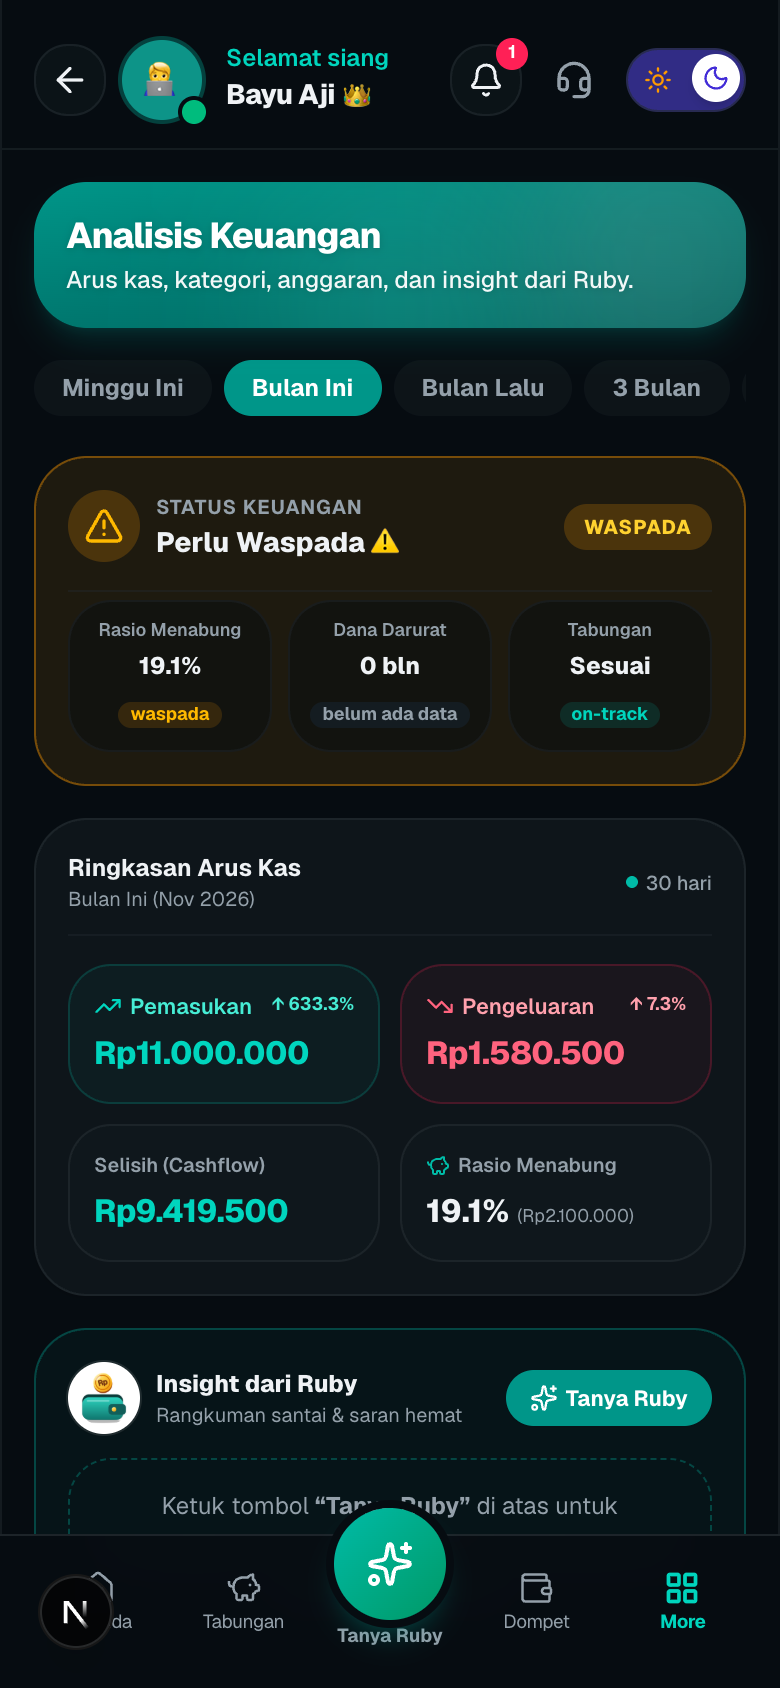
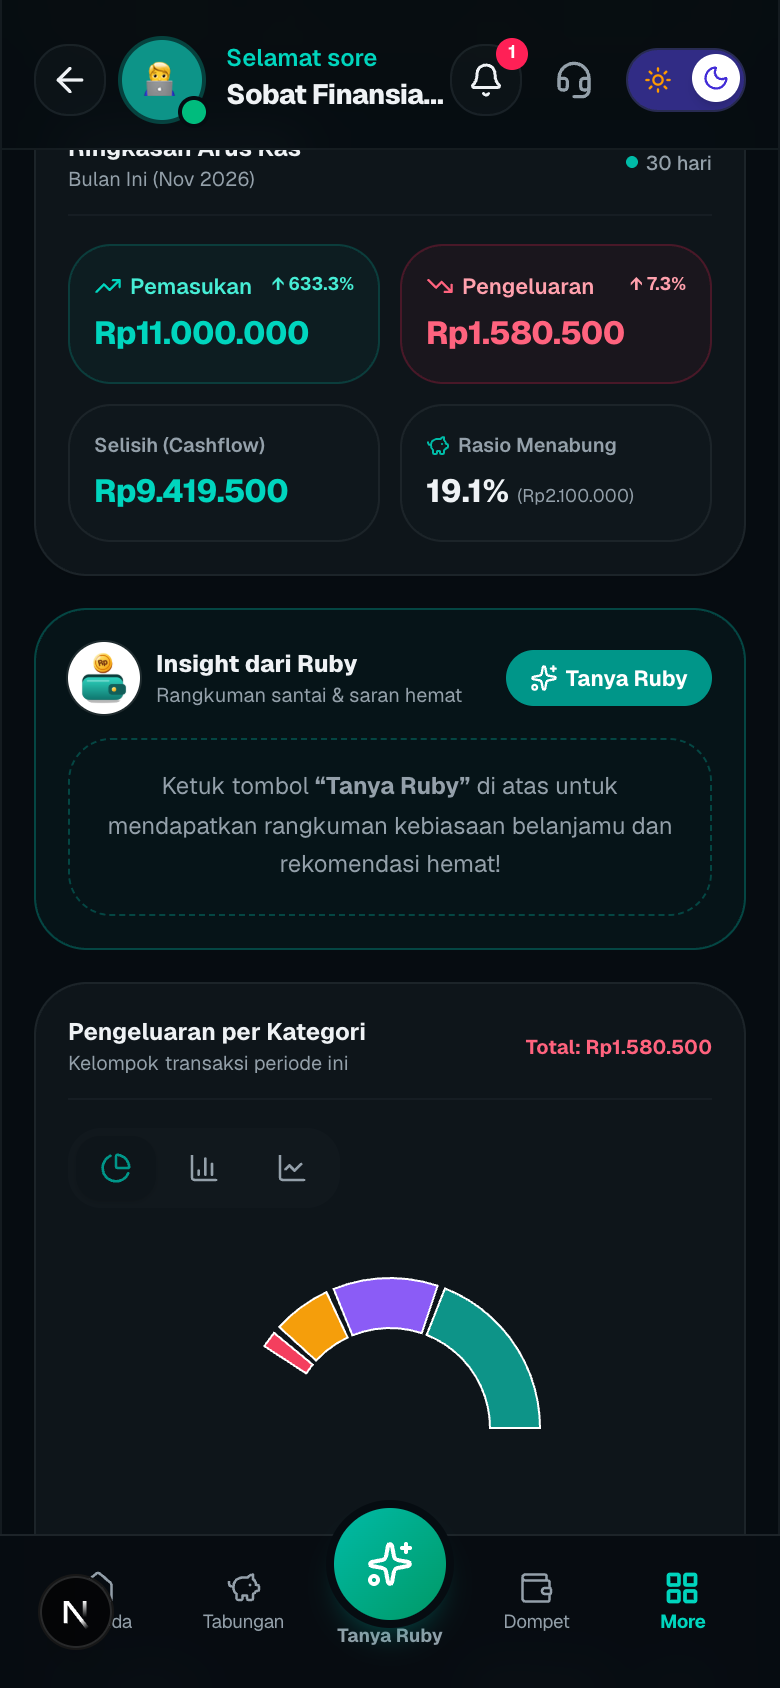
feat: Samakan tinggi baris tabel perbandingan & perbarui screenshot asli dompet, tabungan, analisis donut, dan ekspor csv

diff --git a/src/components/landing/landing-reality-check.tsx b/src/components/landing/landing-reality-check.tsx
@@ -1,8 +1,7 @@
 "use client";
 
 import * as React from "react";
-import { XCircle, CheckCircle2, Sparkles, AlertCircle, ArrowRight } from "lucide-react";
-import { cn } from "@/lib/utils";
+import { XCircle, CheckCircle2, Sparkles, AlertCircle } from "lucide-react";
 
 export function LandingRealityCheck() {
   const comparisons = [
@@ -13,7 +12,6 @@ export function LandingRealityCheck() {
     },
     {
       category: "AI & Pendamping",
-      categoryShort: "AI",
       problem: "Angka kaku tidak sesuai keuanganmu",
       solution: "Didampingi asisten pribadi Ruby AI sesuai keuanganmu",
     },
@@ -56,95 +54,96 @@ export function LandingRealityCheck() {
           </p>
         </div>
 
-        {/* Side-by-Side Comparison Table (2 Master Columns) */}
-        <div className="grid grid-cols-1 md:grid-cols-2 gap-6 lg:gap-8 items-stretch">
-          {/* COLUMN 1: Cara Lama / Aplikasi Finansial Biasa (Red Accent) */}
-          <div className="rounded-3xl border border-rose-500/20 bg-card/70 p-6 sm:p-8 flex flex-col justify-between shadow-xs">
-            <div>
-              {/* Header Kolom Kiri */}
-              <div className="pb-5 border-b border-border/60">
-                <span className="inline-flex items-center gap-1.5 px-3 py-1 rounded-full bg-rose-500/10 text-rose-600 dark:text-rose-400 text-xs font-black border border-rose-500/20">
-                  <XCircle className="size-3.5 shrink-0" />
-                  <span>Cara Konvensional</span>
-                </span>
-                <h3 className="text-xl sm:text-2xl font-black text-foreground mt-3">
+        {/* Unified Comparison Table (Pasti Sejajar & Sama Tinggi Row-by-Row) */}
+        <div className="rounded-3xl border border-border/80 bg-card overflow-hidden shadow-xl">
+          {/* Header Row */}
+          <div className="grid grid-cols-1 md:grid-cols-2 border-b border-border/80">
+            {/* Left Header (Cara Konvensional) */}
+            <div className="p-5 sm:p-6 bg-rose-500/5 md:border-r border-border/70 flex flex-col justify-between">
+              <span className="inline-flex items-center gap-1.5 px-3 py-1 rounded-full bg-rose-500/10 text-rose-600 dark:text-rose-400 text-xs font-black border border-rose-500/20 w-fit">
+                <XCircle className="size-3.5 shrink-0" />
+                <span>Cara Konvensional</span>
+              </span>
+              <div className="mt-3">
+                <h3 className="text-lg sm:text-xl font-black text-foreground">
                   Aplikasi Finansial Biasa
                 </h3>
-                <p className="text-xs sm:text-sm text-muted-foreground mt-1">
-                  Menuntut banyak waktu, kaku, dan bikin malas mencatat setelah 3 hari.
+                <p className="text-xs text-muted-foreground mt-0.5">
+                  Menuntut banyak waktu, kaku, dan bikin malas mencatat.
                 </p>
               </div>
-
-              {/* 6 Baris Masalah */}
-              <div className="divide-y divide-border/50">
-                {comparisons.map((c, i) => (
-                  <div key={i} className="py-4 sm:py-4.5 space-y-1.5">
-                    <span className="text-[10px] font-extrabold uppercase tracking-wider text-rose-500/90 dark:text-rose-400/90">
-                      {c.category}
-                    </span>
-                    <div className="flex items-start gap-2.5">
-                      <div className="size-5 rounded-full bg-rose-500/15 text-rose-600 dark:text-rose-400 flex items-center justify-center shrink-0 mt-0.5">
-                        <XCircle className="size-3.5" />
-                      </div>
-                      <p className="text-sm sm:text-base font-bold text-foreground/90 leading-snug">
-                        {c.problem}
-                      </p>
-                    </div>
-                  </div>
-                ))}
-              </div>
             </div>
 
-            <div className="pt-4 mt-2 border-t border-border/50 text-[11px] text-muted-foreground flex items-center gap-2">
-              <AlertCircle className="size-3.5 text-rose-500 shrink-0" />
-              <span>Seringkali berakhir cuma jadi kuburan angka tanpa solusi nyata.</span>
-            </div>
-          </div>
-
-          {/* COLUMN 2: Dompetku (Teal / Emerald Glowing Highlight) */}
-          <div className="rounded-3xl border-2 border-teal-500 bg-gradient-to-b from-teal-500/10 via-card to-card p-6 sm:p-8 flex flex-col justify-between shadow-2xl shadow-teal-500/10 relative overflow-hidden">
-            {/* Top Recommended Tag */}
-            <div className="absolute top-0 right-0 bg-gradient-to-l from-teal-600 to-emerald-600 text-white text-[10px] font-black uppercase px-3 py-1 rounded-bl-2xl shadow-xs">
-              Lebih Cepat &amp; Personal
-            </div>
-
-            <div>
-              {/* Header Kolom Kanan */}
-              <div className="pb-5 border-b border-border/60">
-                <span className="inline-flex items-center gap-1.5 px-3 py-1 rounded-full bg-teal-500/15 text-teal-700 dark:text-teal-300 text-xs font-black border border-teal-500/30">
+            {/* Right Header (Pendekatan Dompetku) */}
+            <div className="p-5 sm:p-6 bg-teal-500/10 relative flex flex-col justify-between">
+              <div className="flex items-center justify-between">
+                <span className="inline-flex items-center gap-1.5 px-3 py-1 rounded-full bg-teal-500/20 text-teal-700 dark:text-teal-300 text-xs font-black border border-teal-500/30 w-fit">
                   <Sparkles className="size-3.5 shrink-0 text-teal-500" />
                   <span>Pendekatan Dompetku</span>
                 </span>
-                <h3 className="text-xl sm:text-2xl font-black text-foreground mt-3 flex items-center gap-2">
+                <span className="text-[10px] font-black uppercase px-2.5 py-0.5 rounded-full bg-teal-600 text-white shadow-xs">
+                  Lebih Cepat &amp; Personal
+                </span>
+              </div>
+              <div className="mt-3">
+                <h3 className="text-lg sm:text-xl font-black text-foreground flex items-center gap-1.5">
                   <span>Dompetku AI &amp; Assistant</span>
                   <span className="text-sm">✨</span>
                 </h3>
-                <p className="text-xs sm:text-sm text-teal-700/80 dark:text-teal-300/80 mt-1">
-                  Otomatis, personal, dan memberi nasihat finansial nyata sesuai kondisimu.
+                <p className="text-xs text-teal-700/80 dark:text-teal-300/80 mt-0.5">
+                  Otomatis, personal, dan memberi nasihat finansial nyata.
                 </p>
               </div>
-
-              {/* 6 Baris Solusi */}
-              <div className="divide-y divide-border/50">
-                {comparisons.map((c, i) => (
-                  <div key={i} className="py-4 sm:py-4.5 space-y-1.5">
-                    <span className="text-[10px] font-extrabold uppercase tracking-wider text-teal-700 dark:text-teal-300">
-                      {c.category}
-                    </span>
-                    <div className="flex items-start gap-2.5">
-                      <div className="size-5 rounded-full bg-emerald-500/20 text-emerald-600 dark:text-emerald-400 flex items-center justify-center shrink-0 mt-0.5 shadow-xs">
-                        <CheckCircle2 className="size-3.5" />
-                      </div>
-                      <p className="text-sm sm:text-base font-extrabold text-foreground leading-snug">
-                        {c.solution}
-                      </p>
-                    </div>
-                  </div>
-                ))}
-              </div>
             </div>
+          </div>
 
-            <div className="pt-4 mt-2 border-t border-border/50 text-[11px] text-teal-700 dark:text-teal-300 font-semibold flex items-center gap-2">
+          {/* 6 Paired Comparison Rows: Guaranteed Identical Height */}
+          <div className="divide-y divide-border/60">
+            {comparisons.map((c, i) => (
+              <div
+                key={i}
+                className="grid grid-cols-1 md:grid-cols-2 items-stretch transition-colors hover:bg-muted/20"
+              >
+                {/* Left Cell (Red) */}
+                <div className="p-4 sm:p-5 md:border-r border-border/70 flex flex-col justify-center space-y-1 bg-rose-500/[0.02]">
+                  <span className="text-[10px] font-black uppercase tracking-wider text-rose-500/90 dark:text-rose-400/90">
+                    {c.category}
+                  </span>
+                  <div className="flex items-start gap-2.5">
+                    <div className="size-5 rounded-full bg-rose-500/15 text-rose-600 dark:text-rose-400 flex items-center justify-center shrink-0 mt-0.5">
+                      <XCircle className="size-3.5" />
+                    </div>
+                    <p className="text-xs sm:text-sm font-bold text-foreground/90 leading-snug">
+                      {c.problem}
+                    </p>
+                  </div>
+                </div>
+
+                {/* Right Cell (Teal) */}
+                <div className="p-4 sm:p-5 bg-teal-500/[0.04] flex flex-col justify-center space-y-1">
+                  <span className="text-[10px] font-black uppercase tracking-wider text-teal-700 dark:text-teal-300">
+                    {c.category}
+                  </span>
+                  <div className="flex items-start gap-2.5">
+                    <div className="size-5 rounded-full bg-emerald-500/20 text-emerald-600 dark:text-emerald-400 flex items-center justify-center shrink-0 mt-0.5 shadow-xs">
+                      <CheckCircle2 className="size-3.5" />
+                    </div>
+                    <p className="text-xs sm:text-sm font-extrabold text-foreground leading-snug">
+                      {c.solution}
+                    </p>
+                  </div>
+                </div>
+              </div>
+            ))}
+          </div>
+
+          {/* Bottom Footnote Row */}
+          <div className="grid grid-cols-1 md:grid-cols-2 border-t border-border/80 text-[11px] text-muted-foreground">
+            <div className="p-3.5 sm:p-4 bg-muted/30 md:border-r border-border/70 flex items-center gap-2">
+              <AlertCircle className="size-3.5 text-rose-500 shrink-0" />
+              <span>Seringkali berakhir cuma jadi kuburan angka tanpa solusi nyata.</span>
+            </div>
+            <div className="p-3.5 sm:p-4 bg-teal-500/10 text-teal-700 dark:text-teal-300 font-semibold flex items-center gap-2">
               <Sparkles className="size-3.5 shrink-0 text-teal-500" />
               <span>Semua berjalan otomatis tanpa repot mengetik satu per satu.</span>
             </div>

diff --git a/src/components/landing/landing-features-grid.tsx b/src/components/landing/landing-features-grid.tsx
@@ -27,7 +27,7 @@ export function LandingFeaturesGrid() {
   const features = [
     {
       id: "multi-dompet",
-      screenshot: "/screenshots/beranda-wallet.png",
+      screenshot: "/screenshots/dompet.png",
       icon: Wallet,
       tag: "Multi-Dompet Real-Time",
       title: "Bank, E-Wallet, & Tunai Terhubung Tanpa Password",
@@ -97,7 +97,7 @@ export function LandingFeaturesGrid() {
     },
     {
       id: "kontrol-data",
-      screenshot: "/screenshots/cicilan-utang.png",
+      screenshot: "/screenshots/pengaturan-ekspor.png",
       icon: Download,
       tag: "Kontrol Data 100%",
       title: "Datamu Milikmu: Ekspor CSV & Backup JSON Penuh",
@@ -139,20 +139,20 @@ export function LandingFeaturesGrid() {
       <div className="grid grid-cols-1 lg:grid-cols-12 gap-8 lg:gap-10 items-stretch">
         {/* LEFT COLUMN: Real Phone Mockup Matching Height with Right List (aligned top to bottom) */}
         <div
-          className="lg:col-span-5 flex flex-col justify-stretch self-stretch"
+          className="lg:col-span-5 flex flex-col justify-center items-center"
           onMouseEnter={() => setIsPaused(true)}
           onMouseLeave={() => setIsPaused(false)}
         >
-          {/* Smartphone Chassis stretching exactly to match right column */}
-          <div className="relative w-full h-full min-h-[580px] sm:min-h-[640px] rounded-[2.8rem] sm:rounded-[3.2rem] p-2.5 sm:p-3 bg-gradient-to-b from-neutral-800 via-neutral-900 to-neutral-950 border-[3px] border-neutral-700/80 shadow-2xl shadow-teal-950/40 flex flex-col justify-between overflow-hidden">
+          {/* Smartphone Chassis with true full phone aspect ratio (390:844) */}
+          <div className="relative w-full max-w-[340px] sm:max-w-[370px] aspect-[390/844] rounded-[3rem] p-2.5 sm:p-3 bg-gradient-to-b from-neutral-800 via-neutral-900 to-neutral-950 border-[3.5px] border-neutral-700/90 shadow-2xl shadow-teal-950/50 flex flex-col overflow-hidden">
             {/* Dynamic Island / Notch */}
             <div className="absolute top-4 left-1/2 -translate-x-1/2 w-28 h-5 rounded-full bg-black z-30 flex items-center justify-between px-2.5 shadow-sm">
               <span className="size-2 rounded-full bg-neutral-900 border border-neutral-800" />
               <span className="size-1.5 rounded-full bg-teal-500/60" />
             </div>
 
-            {/* Inner Phone Screen with Stacked Screenshots for Zero-Flicker Transitions */}
-            <div className="relative flex-1 w-full rounded-[2.2rem] sm:rounded-[2.5rem] overflow-hidden bg-background border border-neutral-800/80">
+            {/* Inner Phone Screen displaying Full Screen without cutting off bottom navigation */}
+            <div className="relative flex-1 w-full rounded-[2.3rem] overflow-hidden bg-background border border-neutral-800/80">
               {features.map((f, idx) => (
                 <div
                   key={f.id}
@@ -167,8 +167,8 @@ export function LandingFeaturesGrid() {
                     src={f.screenshot}
                     alt={f.title}
                     fill
-                    sizes="(max-width: 1024px) 100vw, 450px"
-                    className="object-cover object-top"
+                    sizes="(max-width: 1024px) 100vw, 420px"
+                    className="object-contain object-top"
                     priority={idx === 0}
                   />
                 </div>
@@ -176,7 +176,7 @@ export function LandingFeaturesGrid() {
 
               {/* Bottom Subtle Glass Indicator Bar */}
               <div className="absolute inset-x-0 bottom-2.5 px-3 z-30 pointer-events-none">
-                <div className="p-2 rounded-2xl bg-black/65 backdrop-blur-md border border-white/10 shadow-lg flex items-center justify-between text-white text-[11px] pointer-events-auto">
+                <div className="p-2 rounded-2xl bg-black/75 backdrop-blur-md border border-white/10 shadow-lg flex items-center justify-between text-white text-[11px] pointer-events-auto">
                   <div className="flex items-center gap-2 truncate">
                     <span className="font-extrabold px-2 py-0.5 rounded-full bg-teal-600 text-[10px] shrink-0">
                       #{activeIndex + 1}

diff --git a/src/lib/data/goals.ts b/src/lib/data/goals.ts
@@ -9,38 +9,56 @@ export const SAMPLE_GOALS: GoalProgress[] = [
   {
     id: "g-1",
     user_id: "demo-user",
-    name: "Target Lamaran & Nikah",
-    target_amount: 15000000,
-    initial_amount: 2000000,
-    deadline: "2027-12-31",
-    storage_place: "BCA Tabungan",
+    name: "Dana Darurat (6 Bulan)",
+    target_amount: 30000000,
+    initial_amount: 5000000,
+    deadline: "2027-06-30",
+    storage_place: "Mandiri Utama",
     storage_wallet_id: "w-1",
-    planned_per_payday: 500000,
+    planned_per_payday: 1500000,
     priority: 1,
     status: "aktif",
-    is_emergency_fund: false,
-    notes: "Persiapan seserahan & lamaran",
-    saved: 3100000,
-    remaining: 11900000,
-    percent: 20.67,
+    is_emergency_fund: true,
+    notes: "Simpanan liquid saat kondisi darurat",
+    saved: 19500000,
+    remaining: 10500000,
+    percent: 65,
   },
   {
     id: "g-2",
     user_id: "demo-user",
-    name: "Dana Darurat (3 Bulan)",
+    name: "Liburan ke Labuan Bajo",
     target_amount: 12000000,
-    initial_amount: 3000000,
-    deadline: "2027-06-30",
-    storage_place: "Bank Jago",
+    initial_amount: 2000000,
+    deadline: "2027-10-25",
+    storage_place: "BCA Tabungan",
     storage_wallet_id: "w-1",
     planned_per_payday: 1000000,
     priority: 2,
     status: "aktif",
-    is_emergency_fund: true,
-    notes: "Simpanan liquid saat kondisi darurat",
-    saved: 7500000,
-    remaining: 4500000,
-    percent: 62.5,
+    is_emergency_fund: false,
+    notes: "Tiket pesawat & penginapan kapal Phinisi",
+    saved: 7200000,
+    remaining: 4800000,
+    percent: 60,
+  },
+  {
+    id: "g-3",
+    user_id: "demo-user",
+    name: "Beli MacBook Pro M3",
+    target_amount: 25000000,
+    initial_amount: 5000000,
+    deadline: "2027-12-31",
+    storage_place: "Bank Jago",
+    storage_wallet_id: "w-1",
+    planned_per_payday: 1500000,
+    priority: 3,
+    status: "aktif",
+    is_emergency_fund: false,
+    notes: "Upgrade alat kerja desain & koding",
+    saved: 12500000,
+    remaining: 12500000,
+    percent: 50,
   },
 ];
 

diff --git a/src/app/(main)/tabungan/page.tsx b/src/app/(main)/tabungan/page.tsx
@@ -10,7 +10,7 @@ import { createClient } from "@/lib/supabase/client";
 import { todayJakarta } from "@/lib/data/sample-mode";
 import type { Database } from "@/types/database";
 import { isSpendableWallet, type WalletBalance } from "@/lib/data/wallets";
-import { deleteSavingsGoal } from "@/lib/data/goals";
+import { deleteSavingsGoal, SAMPLE_GOALS } from "@/lib/data/goals";
 import {
   calculateSavingsProjection,
   type SavingsProjectionResult,
@@ -149,8 +149,10 @@ export default function TabunganPage() {
       amount: number; wallet_id: string; note: string | null; goal_id: string | null;
     }[];
 
+    const rawGoals =
+      goalsRes.data && goalsRes.data.length > 0 ? goalsRes.data : SAMPLE_GOALS;
     setGoals(
-      (goalsRes.data ?? []).map((g) => ({
+      rawGoals.map((g) => ({
         id: g.id as string,
         name: g.name as string,
         target_amount: Number(g.target_amount),

diff --git a/src/components/landing/landing-phone-preview.tsx b/src/components/landing/landing-phone-preview.tsx
@@ -93,7 +93,7 @@ export function LandingPhonePreview() {
               </div>
               <div className="leading-tight">
                 <p className="text-[10px] text-muted-foreground">Selamat Pagi 👋</p>
-                <p className="text-xs font-bold text-foreground">Bayu Aji</p>
+                <p className="text-xs font-bold text-foreground">Sobat Finansial</p>
               </div>
             </div>
 

diff --git a/src/components/layout/top-header.tsx b/src/components/layout/top-header.tsx
@@ -27,8 +27,8 @@ function TopHeaderInner({ title }: TopHeaderProps) {
   const router = useRouter();
   const pathname = usePathname();
   const [profile, setProfile] = React.useState<UserProfile>({
-    name: "Bayu Aji",
-    email: "bayuaji@dompetku.id",
+    name: "Sobat Finansial",
+    email: "user@dompetku.id",
     avatarUrl: null,
     avatarEmoji: "🧑💻",
     avatarBg: "#0d9488",

diff --git a/src/components/settings/settings-view.tsx b/src/components/settings/settings-view.tsx
@@ -109,8 +109,8 @@ export function SettingsView({ top }: { top?: React.ReactNode | ((slots: { secon
 
   // Profile state
   const [profile, setProfile] = React.useState<UserProfile>({
-    name: "Bayu Aji",
-    email: "bayuaji@dompetku.id",
+    name: "Sobat Finansial",
+    email: "user@dompetku.id",
     avatarUrl: null,
     avatarEmoji: "🧑💻",
     avatarBg: "#0d9488",

diff --git a/src/lib/user-profile.ts b/src/lib/user-profile.ts
@@ -9,8 +9,8 @@ export interface UserProfile {
 }
 
 const DEFAULT_PROFILE: UserProfile = {
-  name: "Bayu Aji",
-  email: "bayuaji@dompetku.id",
+  name: "Sobat Finansial",
+  email: "user@dompetku.id",
   avatarUrl: null,
   avatarEmoji: "🧑💻",
   avatarBg: "#0d9488",
